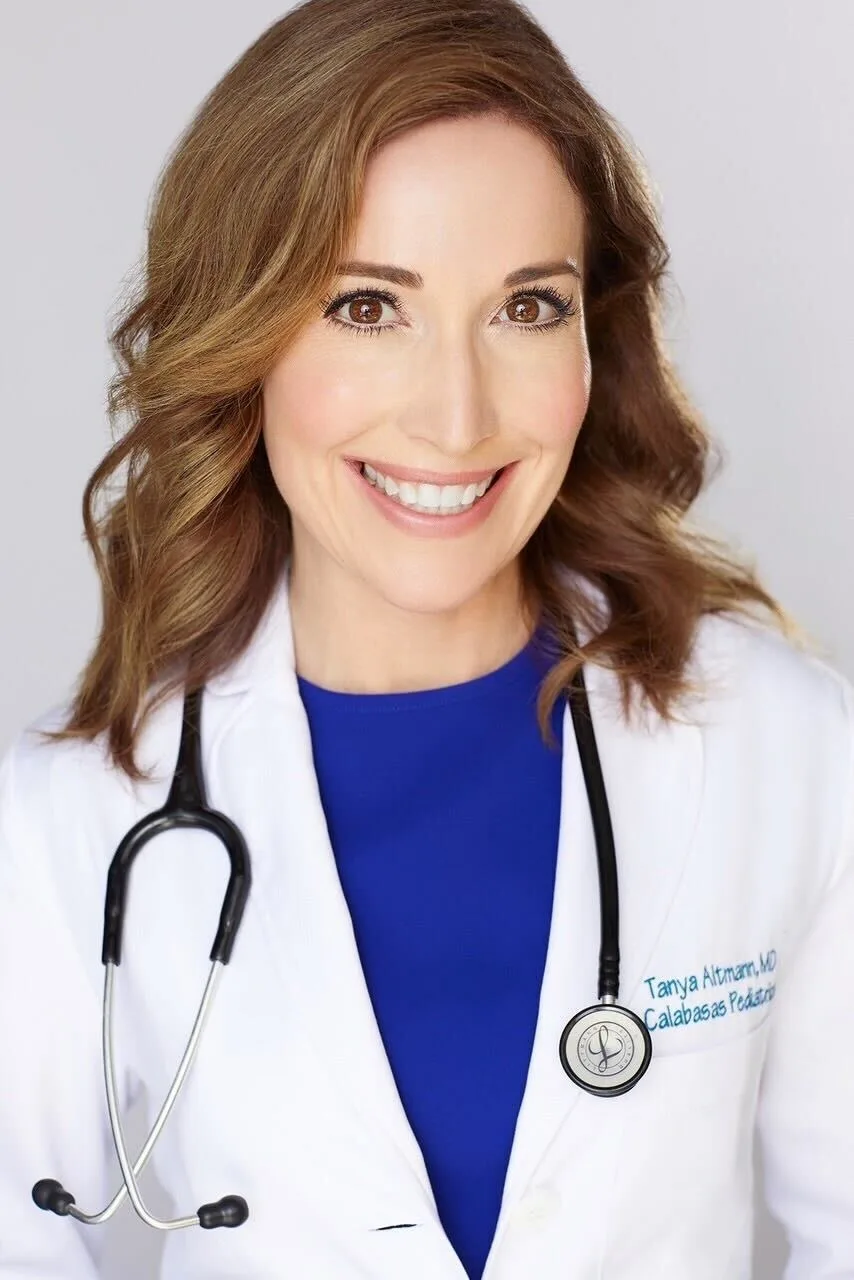
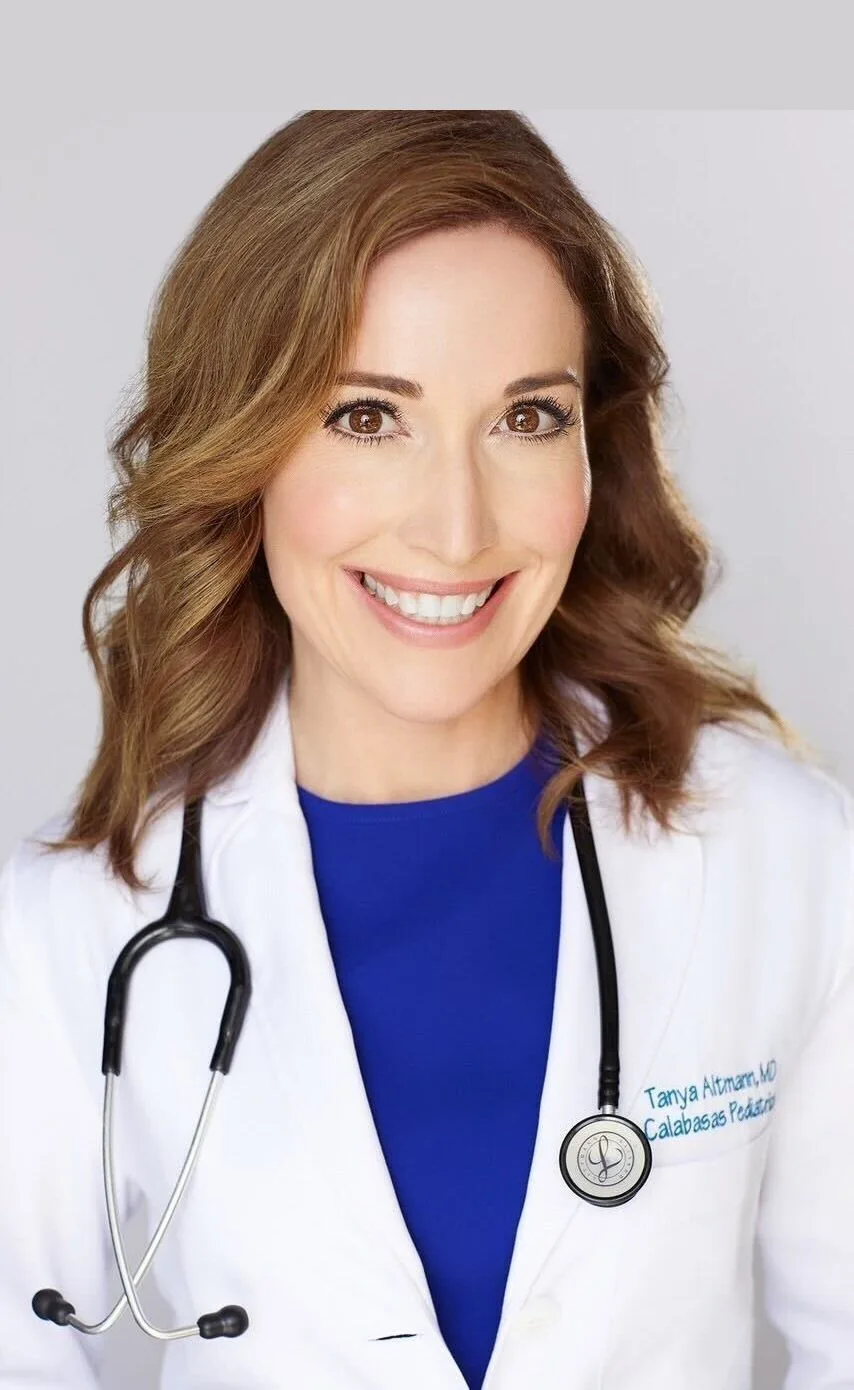
Team crops: room above the head for Altmann and McKenna, Nguyen centred

diff --git a/src/raw/team.body.html b/src/raw/team.body.html
@@ -69,7 +69,7 @@
 </button>
 
 <button type="button" data-ecd-open="altmann" style="display:block;text-align:left;background:none;border:none;padding:0;margin:0;cursor:pointer;font:inherit;width:100%" class="ecd-hv-team-6">
-<div style="background:#E6E2DA;border-radius:14px;overflow:hidden;aspect-ratio:1/1"><img loading="lazy" src="/assets/photos/team/tanya-altmann.webp" alt="Dr. Tanya Altmann" style="width:100%;height:100%;object-fit:cover;object-position:50% 42%;transform:scale(1.1);transform-origin:50% 42%;display:block;transition:transform .4s ease"></div>
+<div style="background:#E6E2DA;border-radius:14px;overflow:hidden;aspect-ratio:1/1"><img loading="lazy" src="/assets/photos/team/tanya-altmann.webp" alt="Dr. Tanya Altmann" style="width:100%;height:100%;object-fit:cover;transform:scale(1.1);transform-origin:50% 42%;display:block;transition:transform .4s ease;object-position:50% 0%"></div>
 <h3 style="margin:18px 0 0;font:600 19px/1.2 'Graphik','Hanken Grotesk',sans-serif;letter-spacing:-.018em;color:#757575">Dr. Tanya Altmann</h3>
 <div style="margin:7px 0 0;font:400 19px/1.35 'Coming Soon',cursive;color:#67A081;white-space:nowrap">Pediatrics</div>
 </button>
@@ -303,7 +303,7 @@
 <div data-ecd-stop style="box-sizing:border-box;background:#ffffff;border-radius:18px;max-width:720px;width:100%;max-height:86vh;overflow:auto;padding:40px 44px 44px;position:relative">
 <button type="button" data-ecd-close aria-label="Close" style="position:absolute;top:18px;right:20px;width:38px;height:38px;border-radius:50%;border:none;background:#F0EEE9;color:#757575;font:400 20px/1 'Graphik','Hanken Grotesk',sans-serif;cursor:pointer">&times;</button>
 <div style="display:grid;grid-template-columns:132px minmax(0,1fr);gap:26px;align-items:start">
-<div style="background:#E6E2DA;border-radius:14px;overflow:hidden;aspect-ratio:1/1"><img src="/assets/photos/team/tanya-altmann.webp" alt="Dr. Tanya Altmann" style="width:100%;height:100%;object-fit:cover;object-position:50% 42%;transform:scale(1.1);transform-origin:50% 42%;display:block"></div>
+<div style="background:#E6E2DA;border-radius:14px;overflow:hidden;aspect-ratio:1/1"><img src="/assets/photos/team/tanya-altmann.webp" alt="Dr. Tanya Altmann" style="width:100%;height:100%;object-fit:cover;transform:scale(1.1);transform-origin:50% 42%;display:block;object-position:50% 0%"></div>
 <div>
 <h3 style="margin:0;font:600 30px/1.16 'Graphik','Hanken Grotesk',sans-serif;letter-spacing:-.02em;color:#757575">Dr. Tanya Altmann</h3>
 <div style="margin:8px 0 0;font:400 20px/1.35 'Coming Soon',cursive;color:#6FA4E2">Pediatrics</div>
